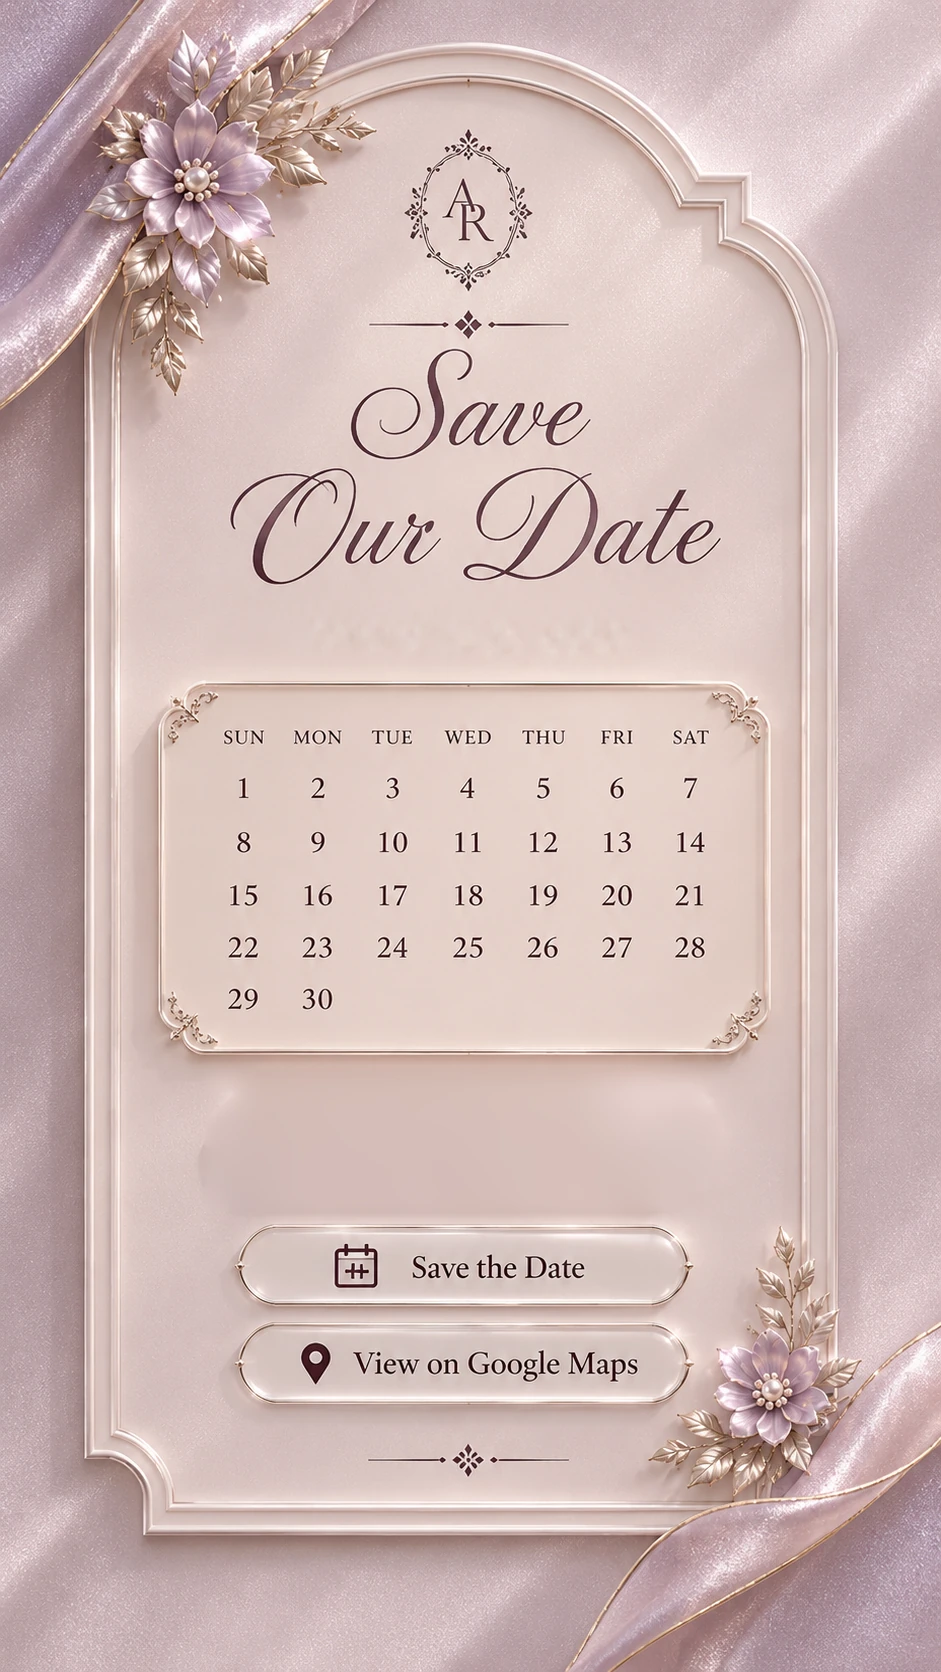
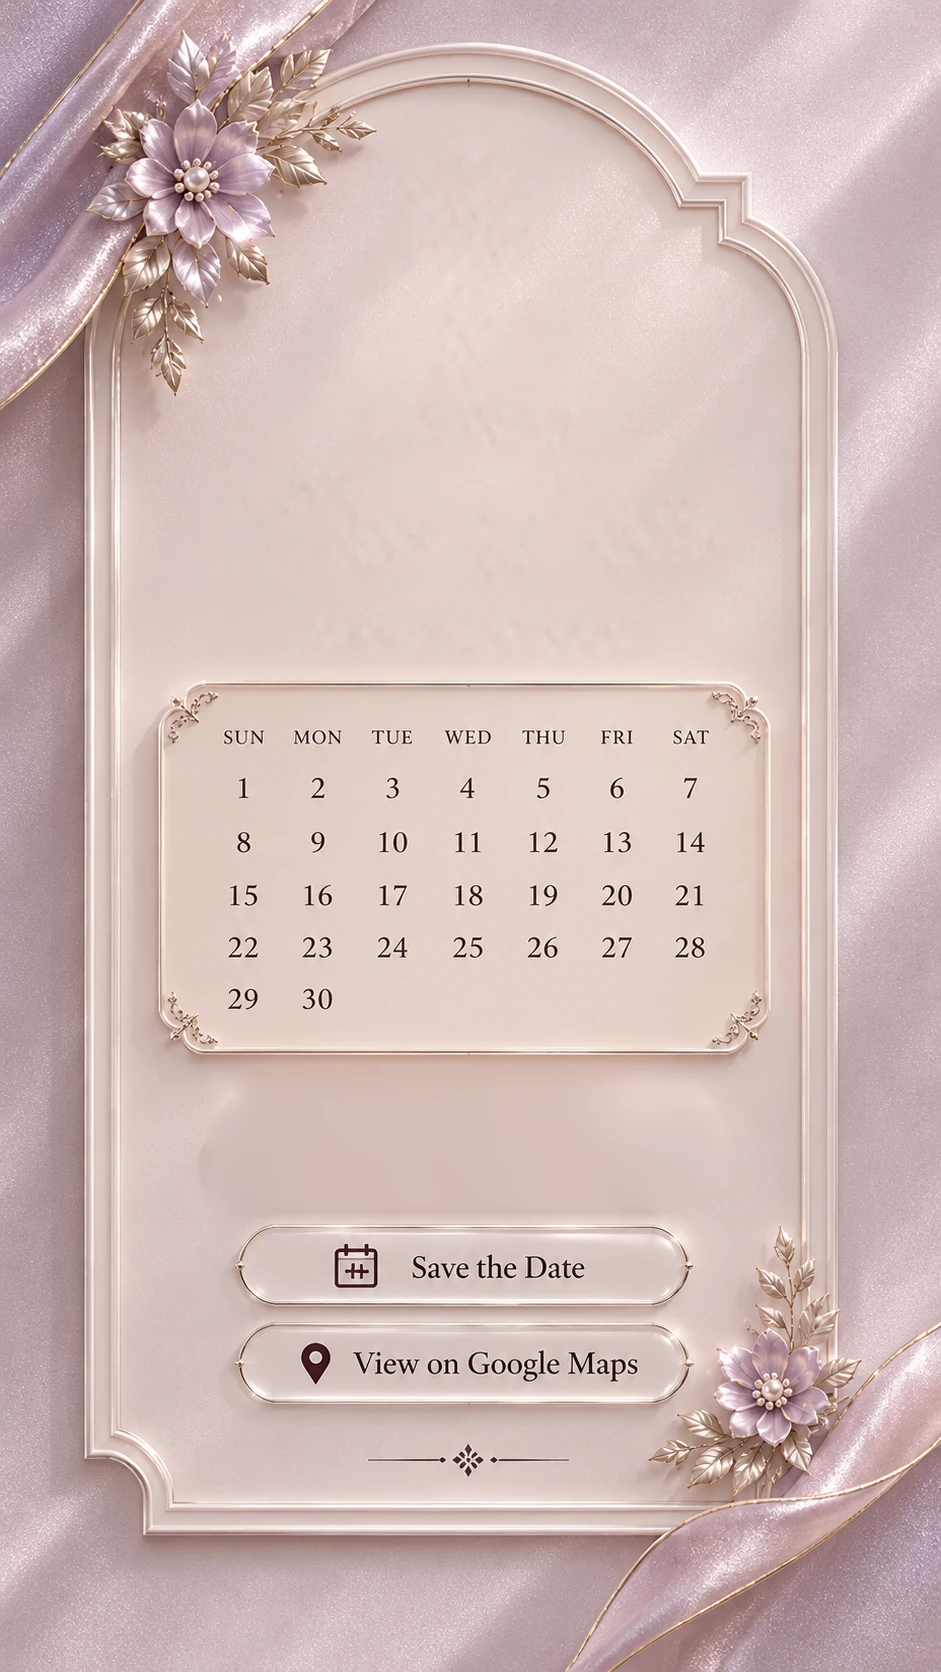
modern-wedding: reveal always starts unrevealed, white & silver sparkles, text entrances on every page
The reveal state is no longer remembered between loads; the heart and Date Revealed
pill appear only on a tap. Sparkles are white/silver dust and glints, no petals.
The lettering on pages 2-6 is cut out of the plates as overlays so every text block
fades in with a 12px rise, staggered, once, as its page scrolls into view.

Changed region(s): [[0.2465, 0.0622, 0.7705, 0.3421]]

diff --git a/public/modern-wedding/js/art.js b/public/modern-wedding/js/art.js
@@ -1,2 +1,2 @@
 /* generated by tools/build-modern-wedding-art.mjs: every overlay's box in % of its page */
-export const art = {"p1-monogram":{"x":42.508,"y":22.727,"w":14.878,"h":11.483},"p1-lines":{"x":26.461,"y":35.766,"w":47.29,"h":5.203},"p1-and":{"x":31.881,"y":50.06,"w":36.451,"h":2.213},"p1-name1":{"x":31.668,"y":43.062,"w":34.538,"h":7.117},"p1-name2":{"x":33.794,"y":53.289,"w":33.475,"h":6.758},"p1-rule":{"x":43.464,"y":63.218,"w":12.965,"h":1.974},"p1-tagline":{"x":34.857,"y":71.411,"w":30.818,"h":2.213},"plate1":{"px":[941,1672]},"p2-reveal-hit":{"x":23.379,"y":64.593,"w":52.604,"h":6.699},"p2-save-hit":{"x":23.592,"y":72.727,"w":50.372,"h":5.981},"p2-maps-hit":{"x":23.592,"y":78.828,"w":50.372,"h":5.981},"p2-heart":{"x":21.57,"y":51.058,"w":9.488,"h":4.435},"p2-revealed":{"x":21.267,"y":61.953,"w":57.022,"h":11.98},"p2-month":{"x":31.775,"y":36.962,"w":35.6,"h":2.033},"p2-reveal":{"x":21.679,"y":63.756,"w":55.898,"h":8.732},"plate2":{"px":[941,1672]},"p3-n-save-hit":{"x":33.581,"y":50.837,"w":25.08,"h":4.306},"p3-n-maps-hit":{"x":60.361,"y":50.837,"w":24.867,"h":4.306},"p3-r-save-hit":{"x":33.581,"y":81.639,"w":25.08,"h":4.306},"p3-r-maps-hit":{"x":60.361,"y":81.639,"w":24.867,"h":4.306},"p3-n-title":{"x":48.672,"y":33.732,"w":15.409,"h":2.452},"p3-n-divider":{"x":50.584,"y":37.081,"w":15.09,"h":1.495},"p3-n-icon-date":{"x":42.721,"y":38.935,"w":4.038,"h":2.392},"p3-n-date":{"x":49.841,"y":39.414,"w":18.916,"h":1.376},"p3-n-icon-time":{"x":42.721,"y":41.687,"w":4.145,"h":2.512},"p3-n-time":{"x":49.947,"y":42.165,"w":10.946,"h":1.376},"p3-n-icon-venue":{"x":42.933,"y":44.677,"w":3.719,"h":2.691},"p3-n-venue":{"x":49.522,"y":44.737,"w":30.606,"h":5.084},"p3-r-title":{"x":48.672,"y":64.175,"w":19.872,"h":2.99},"p3-r-divider":{"x":50.584,"y":67.404,"w":15.303,"h":1.555},"p3-r-icon-date":{"x":42.827,"y":69.318,"w":4.038,"h":2.392},"p3-r-date":{"x":49.734,"y":69.797,"w":19.341,"h":1.495},"p3-r-icon-time":{"x":42.827,"y":72.129,"w":4.145,"h":2.512},"p3-r-time":{"x":49.734,"y":72.548,"w":9.671,"h":1.376},"p3-r-icon-venue":{"x":43.039,"y":75.12,"w":3.719,"h":2.691},"p3-r-venue":{"x":49.628,"y":75.06,"w":31.35,"h":5.263},"plate3":{"px":[941,1672]},"p5-dua-area":{"x":24.655,"y":71.335,"w":54.41,"h":7.54},"p5-will":{"x":19.554,"y":42.609,"w":27.843,"h":18.193},"p5-unable":{"x":52.71,"y":42.609,"w":27.843,"h":18.193},"plate5":{"px":[941,1671]},"plate6":{"px":[941,1672]},"p4-digit0":{"x":30.82,"y":57.386,"w":8.378,"h":10.627},"p4-digit1":{"x":43.447,"y":57.386,"w":8.378,"h":10.627},"p4-digit2":{"x":56.254,"y":57.386,"w":8.378,"h":10.627},"p4-digit3":{"x":69.12,"y":57.386,"w":8.378,"h":10.627},"plate4":{"px":[1671,941]},"satin":{"px":[2172,230]}};
+export const art = {"p1-monogram":{"x":42.508,"y":22.727,"w":14.878,"h":11.483},"p1-lines":{"x":26.461,"y":35.766,"w":47.29,"h":5.203},"p1-and":{"x":31.881,"y":50.06,"w":36.451,"h":2.213},"p1-name1":{"x":31.668,"y":43.062,"w":34.538,"h":7.117},"p1-name2":{"x":33.794,"y":53.289,"w":33.475,"h":6.758},"p1-rule":{"x":43.464,"y":63.218,"w":12.965,"h":1.974},"p1-tagline":{"x":34.857,"y":71.411,"w":30.818,"h":2.213},"plate1":{"px":[941,1672]},"p2-reveal-hit":{"x":23.379,"y":64.593,"w":52.604,"h":6.699},"p2-save-hit":{"x":23.592,"y":72.727,"w":50.372,"h":5.981},"p2-maps-hit":{"x":23.592,"y":78.828,"w":50.372,"h":5.981},"p2-heart":{"x":21.57,"y":51.058,"w":9.488,"h":4.435},"p2-revealed":{"x":21.267,"y":61.953,"w":57.022,"h":11.98},"p2-monogram":{"x":42.614,"y":7.536,"w":14.346,"h":10.048},"p2-divider":{"x":38.895,"y":18.361,"w":21.892,"h":2.093},"p2-title":{"x":24.123,"y":20.694,"w":52.816,"h":14.414},"p2-month":{"x":31.775,"y":36.962,"w":35.6,"h":2.033},"p2-reveal":{"x":21.679,"y":63.756,"w":55.898,"h":8.732},"plate2":{"px":[941,1672]},"p3-n-save-hit":{"x":33.581,"y":50.837,"w":25.08,"h":4.306},"p3-n-maps-hit":{"x":60.361,"y":50.837,"w":24.867,"h":4.306},"p3-r-save-hit":{"x":33.581,"y":81.639,"w":25.08,"h":4.306},"p3-r-maps-hit":{"x":60.361,"y":81.639,"w":24.867,"h":4.306},"p3-monogram":{"x":45.696,"y":4.785,"w":17.853,"h":10.945},"p3-title":{"x":29.543,"y":16.388,"w":48.672,"h":10.287},"p3-divider":{"x":45.696,"y":26.435,"w":19.129,"h":1.854},"p3-n-title":{"x":48.672,"y":33.732,"w":15.409,"h":2.452},"p3-n-divider":{"x":50.584,"y":37.081,"w":15.09,"h":1.495},"p3-n-icon-date":{"x":42.721,"y":38.935,"w":4.038,"h":2.392},"p3-n-date":{"x":49.841,"y":39.414,"w":18.916,"h":1.376},"p3-n-icon-time":{"x":42.721,"y":41.687,"w":4.145,"h":2.512},"p3-n-time":{"x":49.947,"y":42.165,"w":10.946,"h":1.376},"p3-n-icon-venue":{"x":42.933,"y":44.677,"w":3.719,"h":2.691},"p3-n-venue":{"x":49.522,"y":44.737,"w":30.606,"h":5.084},"p3-r-title":{"x":48.672,"y":64.175,"w":19.872,"h":2.99},"p3-r-divider":{"x":50.584,"y":67.404,"w":15.303,"h":1.555},"p3-r-icon-date":{"x":42.827,"y":69.318,"w":4.038,"h":2.392},"p3-r-date":{"x":49.734,"y":69.797,"w":19.341,"h":1.495},"p3-r-icon-time":{"x":42.827,"y":72.129,"w":4.145,"h":2.512},"p3-r-time":{"x":49.734,"y":72.548,"w":9.671,"h":1.376},"p3-r-icon-venue":{"x":43.039,"y":75.12,"w":3.719,"h":2.691},"p3-r-venue":{"x":49.628,"y":75.06,"w":31.35,"h":5.263},"plate3":{"px":[941,1672]},"p5-dua-area":{"x":24.655,"y":71.335,"w":54.41,"h":7.54},"p5-ornament":{"x":42.402,"y":21.005,"w":14.984,"h":4.189},"p5-title":{"x":23.379,"y":25.972,"w":52.71,"h":13.585},"p5-divider1":{"x":32.837,"y":39.856,"w":34.538,"h":3.351},"p5-divider2":{"x":31.987,"y":59.485,"w":36.557,"h":3.172},"p5-dua-title":{"x":35.388,"y":63.196,"w":30.181,"h":7.54},"p5-will":{"x":19.554,"y":42.609,"w":27.843,"h":18.193},"p5-unable":{"x":52.71,"y":42.609,"w":27.843,"h":18.193},"plate5":{"px":[941,1671]},"p6-title":{"x":15.94,"y":23.923,"w":68.013,"h":14.055},"p6-lines":{"x":29.756,"y":41.268,"w":42.508,"h":8.074},"p6-cartouche":{"x":30.181,"y":58.792,"w":41.02,"h":10.167},"plate6":{"px":[941,1672]},"p4-digit0":{"x":30.82,"y":57.386,"w":8.378,"h":10.627},"p4-digit1":{"x":43.447,"y":57.386,"w":8.378,"h":10.627},"p4-digit2":{"x":56.254,"y":57.386,"w":8.378,"h":10.627},"p4-digit3":{"x":69.12,"y":57.386,"w":8.378,"h":10.627},"p4-title":{"x":37.104,"y":22.848,"w":30.521,"h":24.442},"p4-divider":{"x":43.686,"y":47.609,"w":20.347,"h":3.826},"p4-label0":{"x":32.735,"y":67.375,"w":4.608,"h":4.038},"p4-label1":{"x":44.823,"y":67.375,"w":5.446,"h":3.932},"p4-label2":{"x":57.151,"y":67.375,"w":6.643,"h":3.932},"p4-label3":{"x":69.898,"y":67.375,"w":6.643,"h":3.932},"plate4":{"px":[1671,941]},"satin":{"px":[2172,230]}};

diff --git a/public/modern-wedding/js/app.js b/public/modern-wedding/js/app.js
@@ -1,7 +1,7 @@
 /* Modern Wedding: the invitation assembled from its components, one continuous column.
    Scroll order: 1 hero, 2 save our date, 3 our functions, 4 countdown (landscape), 5 RSVP & dua, 6 thank you. */
 import { config as C } from '../config.js';
-import { h, observePages, store, toast, downloadIcs, mapsHref, placeOf } from './util.js';
+import { h, observePages, toast, downloadIcs, mapsHref, placeOf } from './util.js';
 import { InvitationPage, spr, textOr, control, box } from './page.js';
 import { OpeningScreen } from './opening.js';
 import { AudioControl } from './audio.js';
@@ -37,10 +37,13 @@ const page1 = InvitationPage(1, [
 
 /* ── page 2: save our date, with the reveal ── */
 const N = C.events[C.date.event] || C.events.nikkah;
-const revealKey = `${C.rsvp.storageKey}:revealed`;
+/* the reveal happens only on a guest's tap and is never remembered: every fresh load starts unrevealed */
 const revealBtn = h('button', { class: 'plain-hit', type: 'button', 'aria-pressed': 'false' }, h('span', { class: 'sr-only' }, 'Reveal the date'));
 const page2 = InvitationPage(2, [
-  textOr(C.date.month, 'November 2026', 'p2-month', { size: 3.6, cls: 'caps', still: true }),
+  spr('p2-monogram', { delay: 0.1, alt: 'A R' }),
+  spr('p2-divider', { delay: 0.25 }),
+  spr('p2-title', { delay: 0.4, alt: 'Save Our Date' }),
+  textOr(C.date.month, 'November 2026', 'p2-month', { size: 3.6, cls: 'caps', delay: 0.6 }),
   spr('p2-reveal', { still: true, cls: 'reveal-pill', z: 4 }),
   spr('p2-revealed', { still: true, cls: 'revealed-pill', z: 4 }),
   spr('p2-heart', { still: true, cls: 'heart', z: 3 }),
@@ -48,47 +51,62 @@ const page2 = InvitationPage(2, [
   control('p2-save-hit', saveTheDate(N)),
   control('p2-maps-hit', openMaps(N)),
 ]);
-function reveal(animate) {
+revealBtn.addEventListener('click', () => {
+  if (page2.classList.contains('revealed')) return;
   page2.classList.add('revealed');
-  if (!animate) page2.classList.add('instant');
   revealBtn.setAttribute('aria-pressed', 'true');
   revealBtn.firstChild.textContent = `Date revealed: ${C.date.revealDay} ${C.date.month}`;
   revealBtn.disabled = true;
-}
-revealBtn.addEventListener('click', () => { reveal(true); store.set(revealKey, true); });
-if (store.get(revealKey)) reveal(false);
+});
 
 /* ── page 3: our functions ── */
-const card = (k, ev, refs) => [
-  textOr(ev.title, refs.title, `p3-${k}-title`, { size: 5.2, still: true }),
-  spr(`p3-${k}-divider`, { still: true }),
-  spr(`p3-${k}-icon-date`, { still: true }),
-  textOr(ev.date, refs.date, `p3-${k}-date`, { size: 2.9, still: true, align: 'left' }),
-  spr(`p3-${k}-icon-time`, { still: true }),
-  textOr(ev.time, refs.time, `p3-${k}-time`, { size: 2.9, still: true, align: 'left' }),
-  spr(`p3-${k}-icon-venue`, { still: true }),
-  textOr([ev.venue, ...ev.address].join('\n'), refs.venue, `p3-${k}-venue`, { size: 2.9, still: true, align: 'left', cls: 'serif lines' }),
+const card = (k, ev, refs, d0) => [
+  textOr(ev.title, refs.title, `p3-${k}-title`, { size: 5.2, delay: d0 }),
+  spr(`p3-${k}-divider`, { delay: d0 + 0.12 }),
+  spr(`p3-${k}-icon-date`, { delay: d0 + 0.24 }),
+  textOr(ev.date, refs.date, `p3-${k}-date`, { size: 2.9, delay: d0 + 0.24, align: 'left' }),
+  spr(`p3-${k}-icon-time`, { delay: d0 + 0.36 }),
+  textOr(ev.time, refs.time, `p3-${k}-time`, { size: 2.9, delay: d0 + 0.36, align: 'left' }),
+  spr(`p3-${k}-icon-venue`, { delay: d0 + 0.48 }),
+  textOr([ev.venue, ...ev.address].join('\n'), refs.venue, `p3-${k}-venue`, { size: 2.9, delay: d0 + 0.48, align: 'left', cls: 'serif lines' }),
   control(`p3-${k}-save-hit`, saveTheDate(ev)),
   control(`p3-${k}-maps-hit`, openMaps(ev)),
 ];
 const VENUE = 'Virupakshi Gardens,\nKarimnagar road, Govindpalli,\nJagtial, Telangana 505327';
 const page3 = InvitationPage(3, [
-  ...card('n', C.events.nikkah, { title: 'Nikkah', date: '1 November 2026', time: '11:00 AM', venue: VENUE }),
-  ...card('r', C.events.reception, { title: 'Reception', date: '2 November 2026', time: '7:00 PM', venue: VENUE }),
+  spr('p3-monogram', { delay: 0.1, alt: 'A R' }),
+  spr('p3-title', { delay: 0.25, alt: 'Our Functions' }),
+  spr('p3-divider', { delay: 0.4 }),
+  ...card('n', C.events.nikkah, { title: 'Nikkah', date: '1 November 2026', time: '11:00 AM', venue: VENUE }, 0.55),
+  ...card('r', C.events.reception, { title: 'Reception', date: '2 November 2026', time: '7:00 PM', venue: VENUE }, 0.9),
 ]);
 
 /* ── page 4: until we say Nikkah (landscape) ── */
 const countdown = Countdown(C.countdown.target);
-const page4 = InvitationPage(4, countdown);
+const page4 = InvitationPage(4, [
+  spr('p4-title', { delay: 0.1, alt: 'Until We Say Nikkah' }),
+  spr('p4-divider', { delay: 0.3 }),
+  ...countdown,
+  ...[0, 1, 2, 3].map((k) => spr(`p4-label${k}`, { delay: 0.45 + k * 0.1, alt: ['Days', 'Hours', 'Minutes', 'Seconds'][k] })),
+]);
 
 /* ── page 5: RSVP & dua for us ── */
-const page5 = InvitationPage(5, Rsvp(C.rsvp));
+const page5 = InvitationPage(5, [
+  spr('p5-ornament', { delay: 0.1 }),
+  spr('p5-title', { delay: 0.25, alt: 'RSVP' }),
+  spr('p5-divider1', { delay: 0.4 }),
+  ...Rsvp(C.rsvp),
+  spr('p5-divider2', { delay: 0.75 }),
+  spr('p5-dua-title', { delay: 0.9, alt: 'Dua for Us' }),
+]);
 
 /* ── page 6: thank you ── */
 const page6 = InvitationPage(6, [
+  spr('p6-title', { delay: 0.1, alt: 'Thank You' }),
+  spr('p6-lines', { delay: 0.35, alt: 'For your love & blessings' }),
+  spr('p6-cartouche', { delay: 0.6, alt: 'We are eagerly waiting to celebrate with you!' }),
   h('a', { class: 'created', href: 'https://invitivals.com/', target: '_blank', rel: 'noopener' }, 'Created by ', h('b', {}, 'INVITIVALS')),
 ]);
-page6.classList.add('fade-page');
 
 const invitation = h('main', { class: 'invitation column', id: 'invitation' }, page1, page2, page3, page4, page5, page6);
 app.append(invitation);

diff --git a/public/modern-wedding/js/sparkle.js b/public/modern-wedding/js/sparkle.js
@@ -1,11 +1,10 @@
-/* SparkleOverlay — a few champagne, dusty-mauve and rose-gold motes drifting gently down, the odd
-   satin petal among them, and a micro-glitter trail under the guest's finger. One fixed canvas with
-   pointer-events none, so it never blocks scrolling, links or inputs; the trail listens passively.
-   Off entirely for reduced motion. */
+/* SparkleOverlay — tiny white and silver motes drifting slowly down over the whole invitation, some
+   twinkling, a few catching the light as small four-point glints, and a micro-glitter trail under the
+   guest's finger. One fixed, device-pixel-ratio-aware canvas with pointer-events none, so it never
+   blocks scrolling, links or inputs; the trail listens passively. Off entirely for reduced motion. */
 import { h, reducedMotion } from './util.js';
 
-const TINTS = [[243, 220, 180], [243, 220, 180], [236, 206, 170], [201, 162, 184], [227, 180, 160], [214, 182, 150]];
-const PETAL = [233, 207, 217];
+const TINTS = [[255, 255, 255], [255, 255, 255], [244, 246, 250], [230, 234, 240], [214, 219, 228], [200, 206, 216]];
 
 export function SparkleOverlay() {
   if (reducedMotion()) return { show() {}, hide() {} };
@@ -16,18 +15,15 @@ export function SparkleOverlay() {
   const N = 26;
   const P = [], T = []; // drifting motes, touch glitter
 
-  const spawn = (p = {}) => {
-    const petal = Math.random() < 0.07;
-    return Object.assign(p, {
-      kind: petal ? 'petal' : Math.random() < 0.35 ? 'star' : 'dust',
-      tint: petal ? PETAL : TINTS[(Math.random() * TINTS.length) | 0],
-      x: Math.random() * W, y: -10 - Math.random() * H * 0.2,
-      r: petal ? 2.6 + Math.random() * 2.2 : 0.6 + Math.random() * 1.4,
-      vx: (Math.random() - 0.5) * 0.12, vy: petal ? 0.22 + Math.random() * 0.2 : 0.12 + Math.random() * 0.22,
-      sway: Math.random() * Math.PI * 2, rot: Math.random() * Math.PI, vr: (Math.random() - 0.5) * 0.01,
-      a: 0, max: petal ? 0.32 + Math.random() * 0.18 : 0.22 + Math.random() * 0.3, life: 0, span: 700 + Math.random() * 700,
-    });
-  };
+  const spawn = (p = {}) => Object.assign(p, {
+    kind: Math.random() < 0.3 ? 'star' : 'dust',
+    tint: TINTS[(Math.random() * TINTS.length) | 0],
+    x: Math.random() * W, y: -10 - Math.random() * H * 0.2,
+    r: 0.6 + Math.random() * 1.3,
+    vx: (Math.random() - 0.5) * 0.12, vy: 0.12 + Math.random() * 0.22,
+    sway: Math.random() * Math.PI * 2, tw: 0.02 + Math.random() * 0.05, twinkle: Math.random() < 0.6,
+    a: 0, max: 0.22 + Math.random() * 0.3, life: 0, span: 700 + Math.random() * 700,
+  });
   function resize() {
     dpr = Math.min(2, devicePixelRatio || 1);
     W = innerWidth; H = innerHeight;
@@ -50,13 +46,11 @@ export function SparkleOverlay() {
       p.life += dt;
       const t = p.life / p.span;
       p.a = p.max * Math.sin(Math.PI * Math.min(1, t)); // ease in, ease out: never a flash
-      p.sway += 0.01 * dt; p.rot += p.vr * dt;
+      if (p.twinkle) p.a *= 0.55 + 0.45 * Math.sin(p.life * p.tw); // a soft twinkle, never off
+      p.sway += 0.01 * dt;
       p.x += (p.vx + Math.sin(p.sway) * 0.08) * dt; p.y += p.vy * dt;
       if (t >= 1 || p.y > H + 12) spawn(p);
-      if (p.kind === 'petal') {
-        ctx.save(); ctx.translate(p.x, p.y); ctx.rotate(p.rot);
-        ctx.fillStyle = rgba(p.tint, p.a); ctx.beginPath(); ctx.ellipse(0, 0, p.r, p.r * 0.55, 0, 0, Math.PI * 2); ctx.fill(); ctx.restore();
-      } else if (p.kind === 'star') star(p.x, p.y, p.r, p.tint, p.a);
+      if (p.kind === 'star') star(p.x, p.y, p.r, p.tint, p.a);
       else {
         const g = ctx.createRadialGradient(p.x, p.y, 0, p.x, p.y, p.r * 2.5);
         g.addColorStop(0, rgba(p.tint, p.a)); g.addColorStop(1, rgba(p.tint, 0));

diff --git a/public/modern-wedding/css/invite.css b/public/modern-wedding/css/invite.css
@@ -49,11 +49,10 @@ button { font: inherit; cursor: pointer; }
 .satin img { width: 100%; height: 100%; }
 
 /* ── motion ── */
-.reveal { opacity: 0; transform: translateY(1.2cqw); transition: opacity 1.1s ease, transform 1.1s ease; transition-delay: var(--d, 0s); }
-.page.on.ready .reveal { opacity: 1; transform: none; }
-.fade-page > .plate, .fade-page > .created { opacity: 0; transition: opacity 1.6s ease; }
-.fade-page.on > .plate, .fade-page.on > .created { opacity: 1; }
-.fade-page { background: #c9afc0; }
+/* text enters once, as its page scrolls into view: a fade with a 12px rise, eased out, lines staggered by --d.
+   Only opacity and transform change, so the final position is exactly the reference's. */
+.reveal { opacity: 0; transform: translateY(12px); transition: opacity .8s cubic-bezier(.22, .61, .36, 1), transform .8s cubic-bezier(.22, .61, .36, 1); transition-delay: var(--d, 0s); will-change: opacity, transform; }
+.page.on.ready .reveal, .no-io .reveal { opacity: 1; transform: none; }
 .created { position: absolute; left: 50%; bottom: 1.4%; transform: translateX(-50%); z-index: 4; color: var(--cream); font-size: 2.2cqw; letter-spacing: .14em; white-space: nowrap; text-decoration: none; padding: .7cqw 2.4cqw; border-radius: 99px; background: rgba(74,31,53,.55); }
 .created b { font-weight: 700; letter-spacing: .2em; }
 
@@ -159,6 +158,7 @@ button { font: inherit; cursor: pointer; }
 
 @media (prefers-reduced-motion: reduce) {
   .reveal-pill > img, .tap .ring, .audio .on, .audio.blocked, .revealed .heart > img { animation: none !important; }
-  .reveal, .fade-page > .plate, .fade-page > .created, .reveal-pill, .revealed-pill, .heart, .invitation, .tile { transition-duration: .01s !important; transition-delay: 0s !important; }
+  .reveal, .reveal-pill, .revealed-pill, .heart, .invitation, .tile { transition-duration: .01s !important; transition-delay: 0s !important; }
+  .reveal { opacity: 1; transform: none; }
   .sparkle { display: none; }
 }

diff --git a/public/modern-wedding/js/rsvp.js b/public/modern-wedding/js/rsvp.js
@@ -19,9 +19,9 @@ export function Rsvp(cfg) {
 
   /* ── the two tiles ── */
   const tiles = {};
-  const pick = (id, label, value) => {
+  const pick = (id, label, value, delay) => {
     const b = h('button', { class: 'tile', type: 'button', 'aria-pressed': 'false', 'aria-label': label }, h('img', { src: `assets/${id}.webp`, alt: '', decoding: 'async', draggable: 'false' }));
-    const wrap = h('div', { class: 's hit', style: { ...box(id), zIndex: 5 } }, b);
+    const wrap = h('div', { class: 's hit reveal', style: { ...box(id), zIndex: 5, '--d': `${delay}s` } }, b);
     tiles[value] = b;
     b.addEventListener('click', async () => {
       if (b.classList.contains('busy')) return;
@@ -45,8 +45,8 @@ export function Rsvp(cfg) {
       b.setAttribute('aria-pressed', String(v === value));
     }
   }
-  const will = pick('p5-will', 'Will attend', 'yes');
-  const unable = pick('p5-unable', 'Unable to attend', 'no');
+  const will = pick('p5-will', 'Will attend', 'yes', 0.5);
+  const unable = pick('p5-unable', 'Unable to attend', 'no', 0.62);
 
   /* ── the Dua box in the frame's empty area ── */
   const field = h('textarea', { class: 'dua-field', rows: '2', readonly: true, placeholder: cfg.placeholder, 'aria-label': 'Your dua for the couple' });

diff --git a/public/modern-wedding/index.html b/public/modern-wedding/index.html
@@ -26,11 +26,11 @@
 <link rel="preconnect" href="https://fonts.googleapis.com">
 <link rel="preconnect" href="https://fonts.gstatic.com" crossorigin>
 <link href="https://fonts.googleapis.com/css2?family=Cormorant+Garamond:ital,wght@0,400;0,500;0,600;0,700;1,400;1,500&family=Great+Vibes&display=swap" rel="stylesheet">
-<link rel="stylesheet" href="css/invite.css?v=1">
+<link rel="stylesheet" href="css/invite.css?v=2">
 </head>
 <body>
 <div id="app" class="app"></div>
 <noscript><p style="padding:40px 24px;text-align:center;font-family:Georgia,serif;color:#4a1f35">Please enable JavaScript to open this invitation.</p></noscript>
-<script type="module" src="js/app.js?v=1"></script>
+<script type="module" src="js/app.js?v=2"></script>
 </body>
 </html>

diff --git a/public/modern-wedding/js/countdown.js b/public/modern-wedding/js/countdown.js
@@ -6,7 +6,7 @@ import { box } from './page.js';
 
 export function Countdown(targetIso) {
   const target = Date.parse(targetIso);
-  const cells = [0, 1, 2, 3].map((k) => h('div', { class: 's digit', style: { ...box(`p4-digit${k}`), zIndex: 3 } }, h('span', {}, '00')));
+  const cells = [0, 1, 2, 3].map((k) => h('div', { class: 's digit reveal', style: { ...box(`p4-digit${k}`), zIndex: 3, '--d': `${0.45 + k * 0.1}s` } }, h('span', {}, '00')));
   const live = h('div', { class: 'sr-only', 'aria-live': 'polite', 'aria-atomic': 'true' });
   const labels = ['days', 'hours', 'minutes', 'seconds'];
   let lastMinute = -1;

diff --git a/public/modern-wedding/js/util.js b/public/modern-wedding/js/util.js
@@ -67,6 +67,7 @@ export function mapsHref(ev) {
 
 /* fade in each page's overlays as it scrolls into view */
 export function observePages(root) {
+  if (!('IntersectionObserver' in window)) { root.classList.add('no-io'); return; } // nothing ever stays hidden
   const io = new IntersectionObserver((entries) => {
     for (const e of entries) if (e.isIntersecting) { e.target.classList.add('on'); io.unobserve(e.target); }
   }, { threshold: 0.15 });
